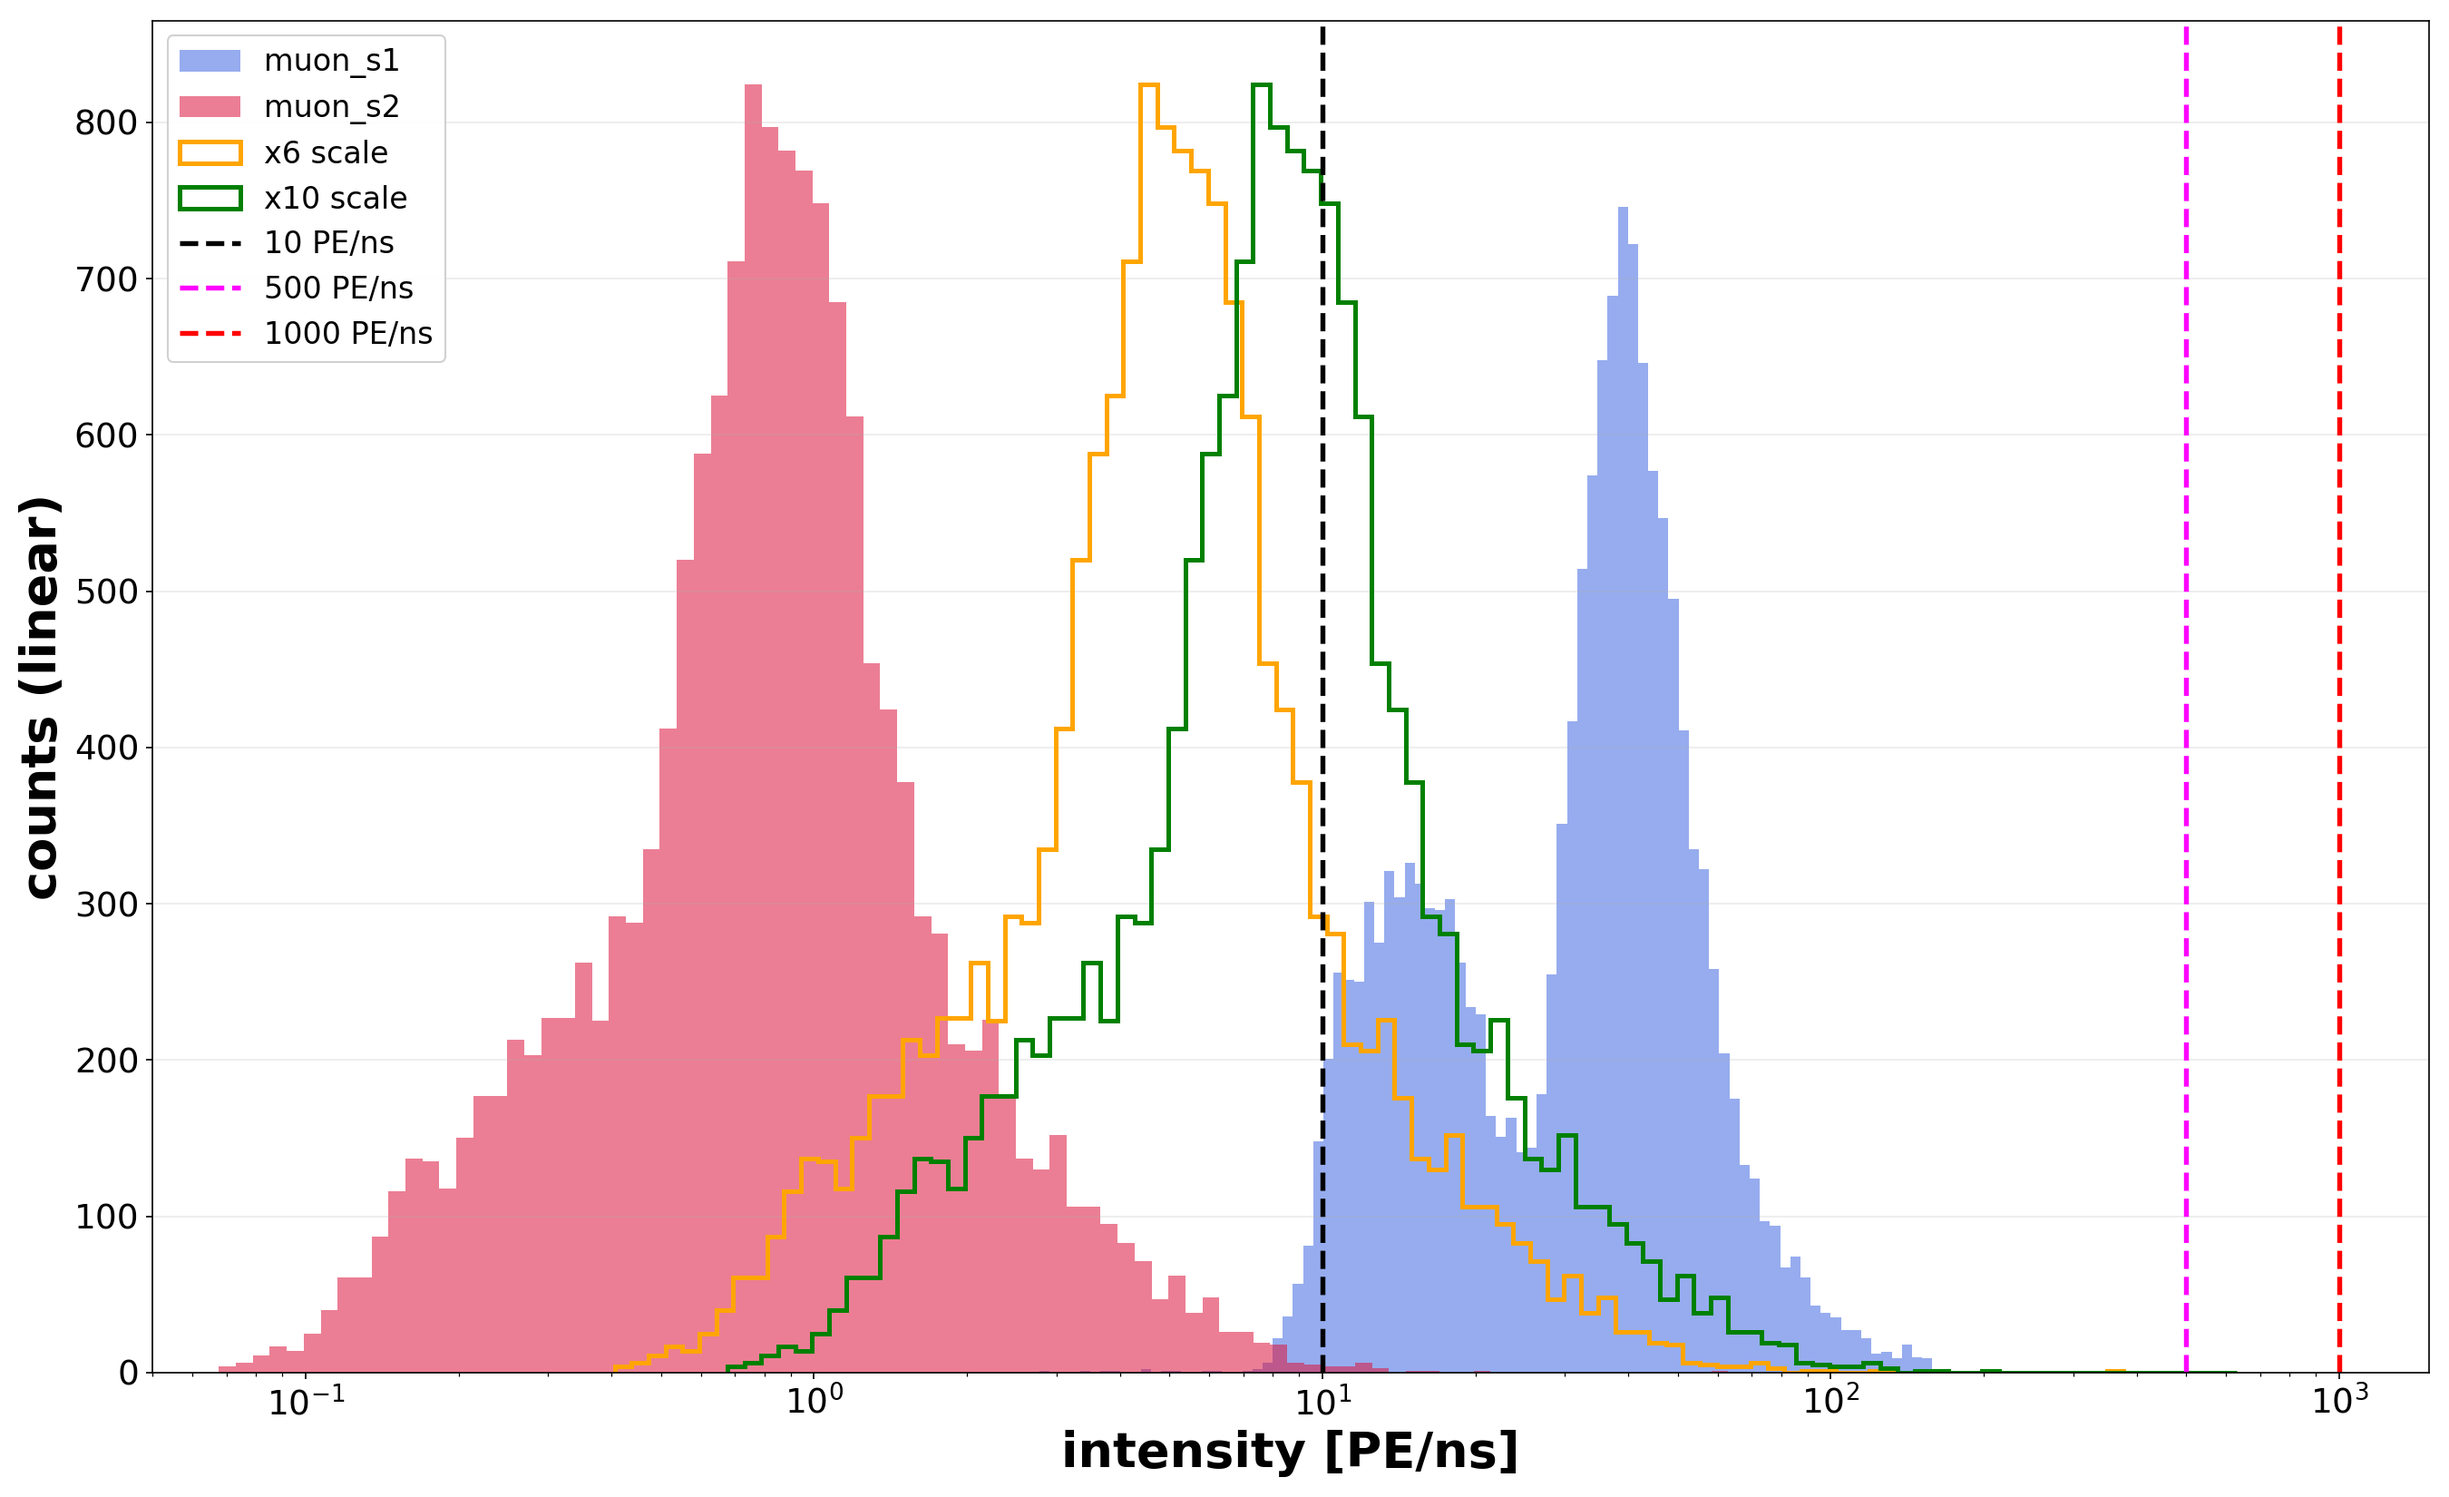
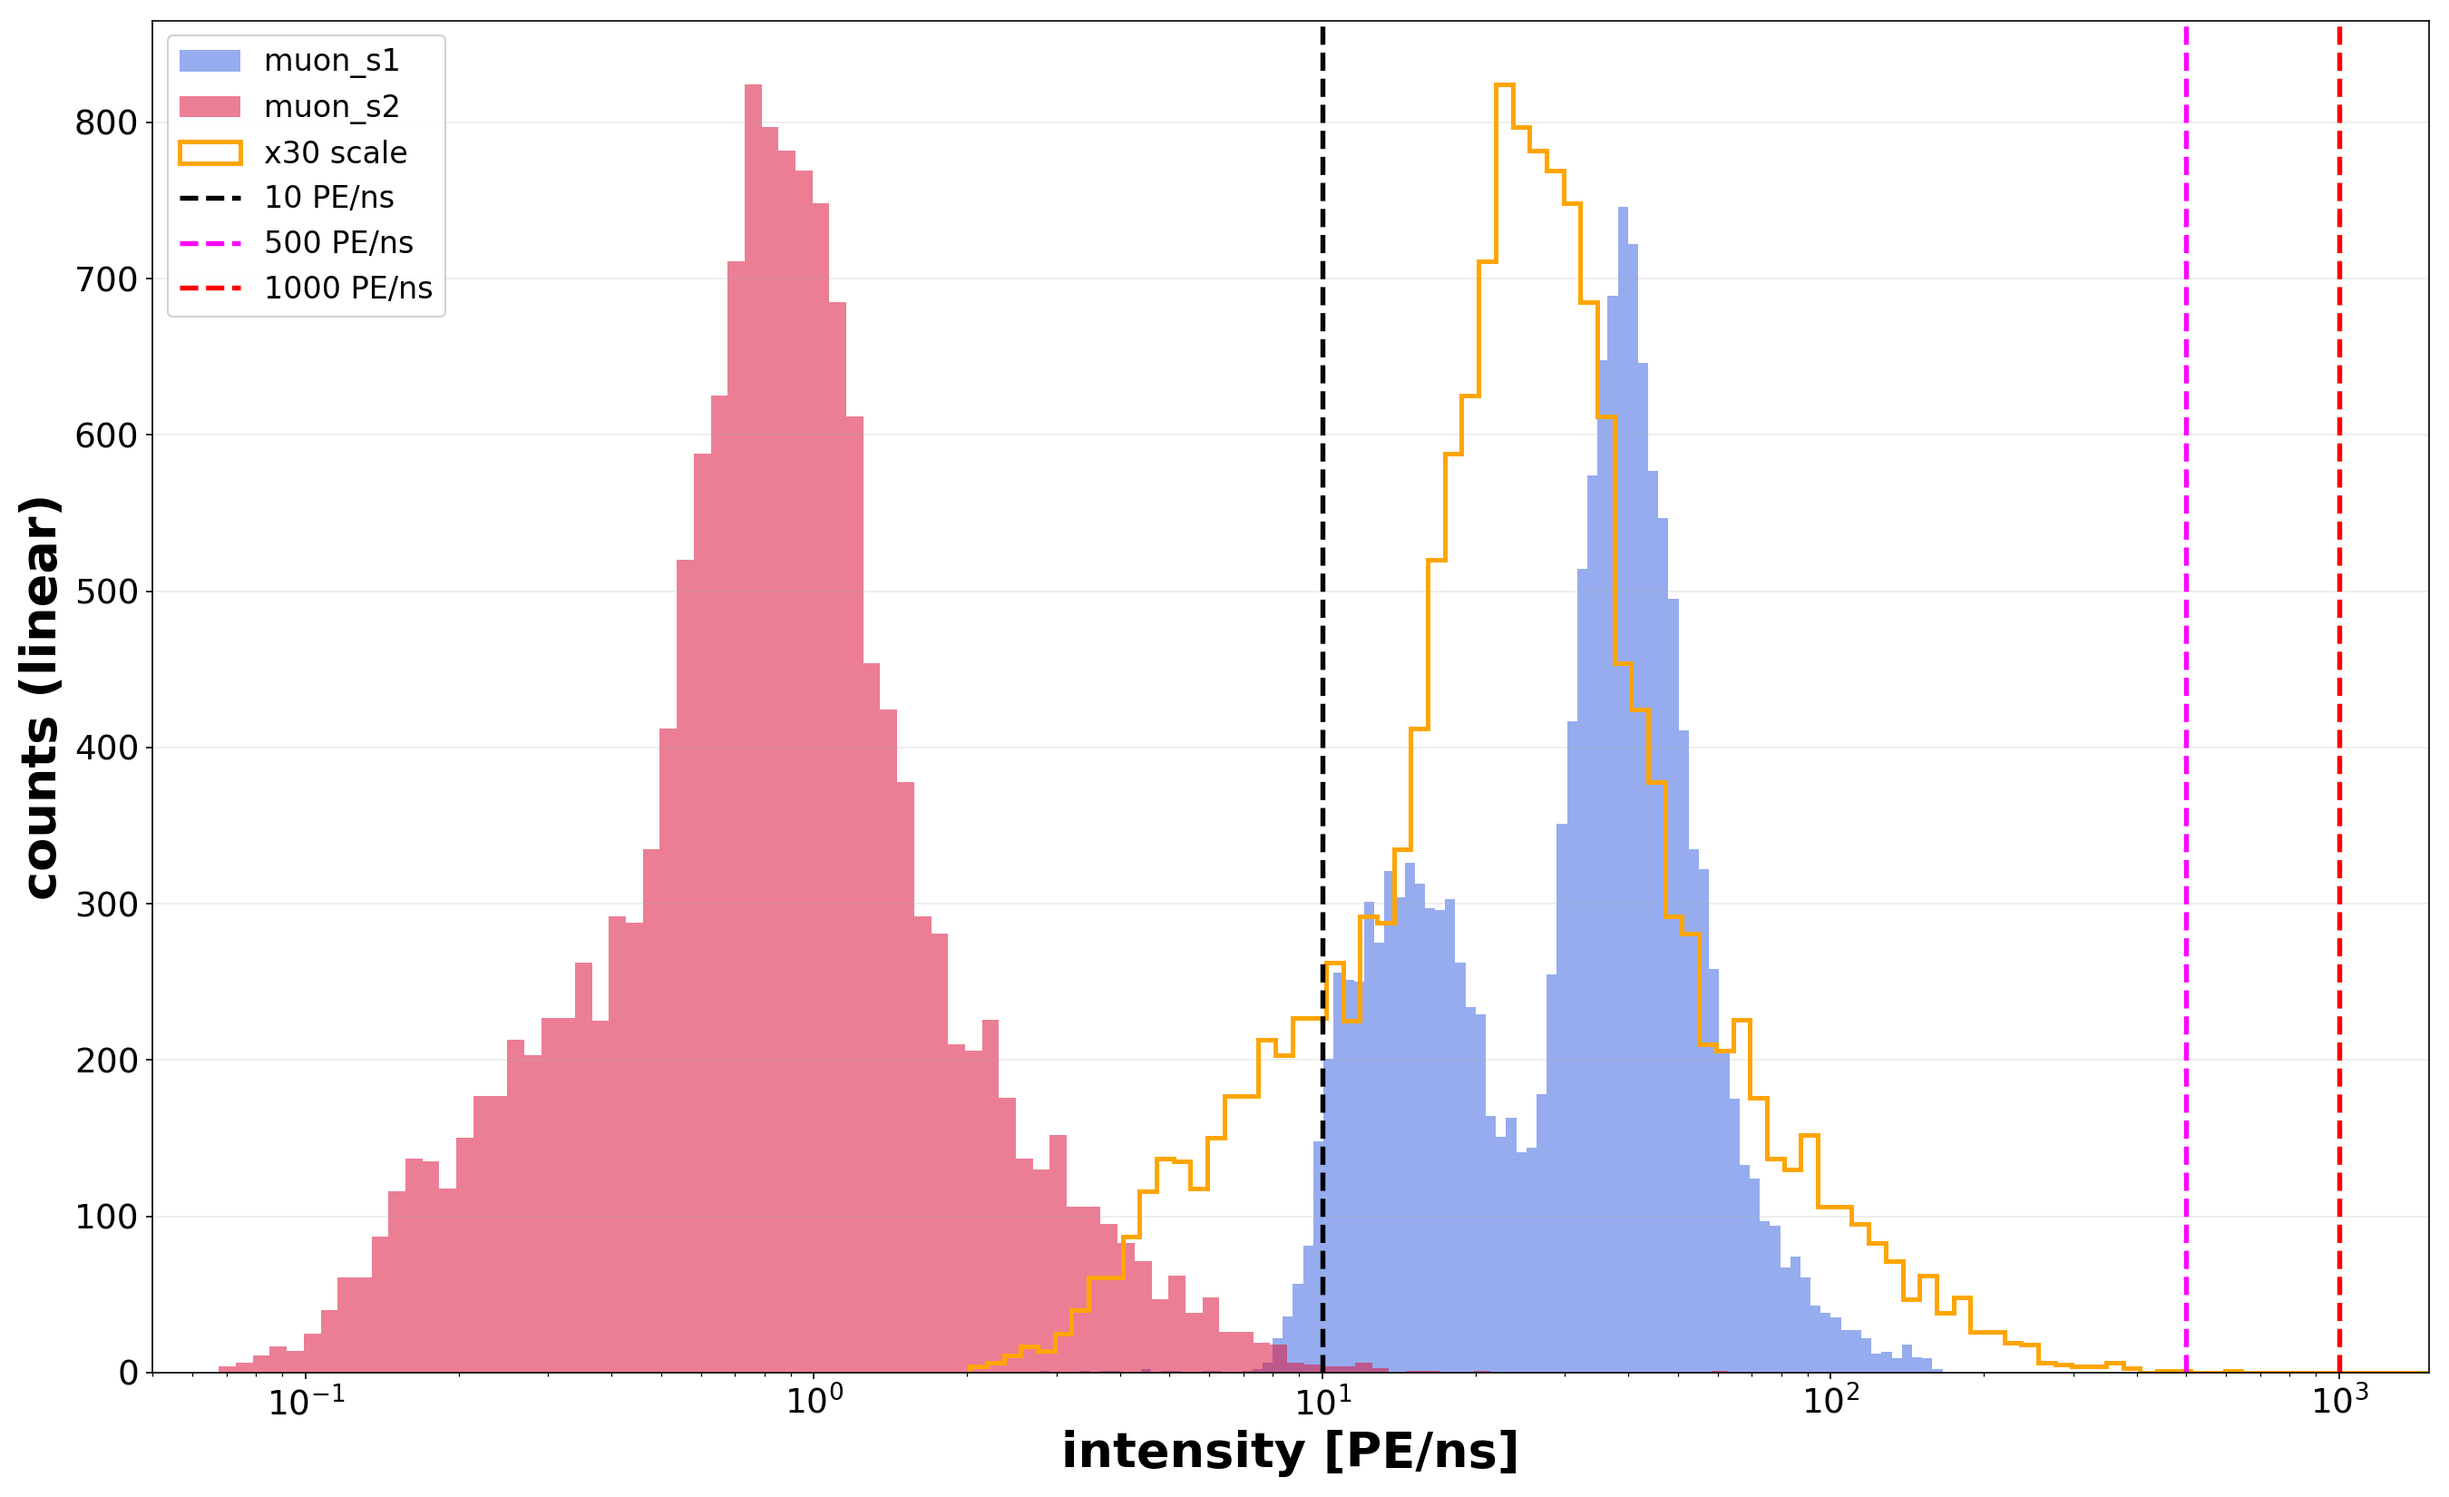
Linear-y intensity: replace x6/x10 with x30 scaled muon_s2

diff --git a/scripts/plot_muon_s1s2_params.py b/scripts/plot_muon_s1s2_params.py
@@ -135,14 +135,14 @@ s1_int = s1_int[s1_int > 0]
 s2_int = (m["muon_s2_area_an"] / m["muon_s2_width_ns"])
 s2_int = s2_int.replace([np.inf, -np.inf], np.nan).dropna()
 s2_int = s2_int[s2_int > 0]
-curves = [
-    (s1_int, "royalblue", "muon_s1", "stepfilled", 0.55),
-    (s2_int, "crimson", "muon_s2", "stepfilled", 0.55),
-    (s2_int * 6.0, "orange", "x6 scale", "step", 1.0),
-    (s2_int * 10.0, "green", "x10 scale", "step", 1.0),
-]
-def draw_intensity(yscale, name):
+scales_log = [(6.0, "orange"), (10.0, "green")]
+scales_lin = [(30.0, "orange")]
+def draw_intensity(yscale, name, scales):
     fig, ax = plt.subplots(figsize=(18, 11))
+    curves = [
+        (s1_int, "royalblue", "muon_s1", "stepfilled", 0.55),
+        (s2_int, "crimson", "muon_s2", "stepfilled", 0.55),
+    ] + [(s2_int * f, color, f"x{f:g} scale", "step", 1.0) for f, color in scales]
     for v, color, lab, htype, alpha in curves:
         bins = np.logspace(np.log10(v.min()), np.log10(v.max()), 90)
         ax.hist(v, bins=bins, color=color, alpha=alpha, histtype=htype, lw=2.4,
@@ -163,5 +163,5 @@ def draw_intensity(yscale, name):
     print(f"saved {name}")
 
 
-draw_intensity("log", "co60_590_v2_muon_s1s2_intensity.png")
-draw_intensity("linear", "co60_590_v2_muon_s1s2_intensity_liny.png")
+draw_intensity("log", "co60_590_v2_muon_s1s2_intensity.png", scales_log)
+draw_intensity("linear", "co60_590_v2_muon_s1s2_intensity_liny.png", scales_lin)
